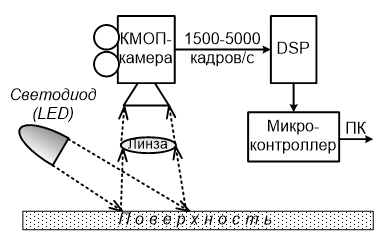
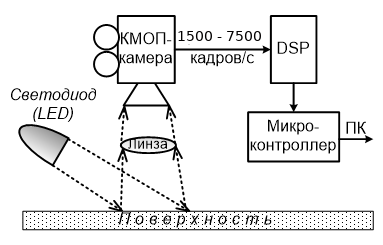
ebany rot

Changed region(s): [[0.4595, 0.1143, 0.6893, 0.2]]

diff --git a/assets/pages/mouse.html b/assets/pages/mouse.html
@@ -356,9 +356,9 @@
                 alt="optical-mouse3"
               />
               <span class="type__text--green">Второе поколение</span> оптических
-              мышей имеет более сложное устройство. В ничней части мыши
+              мышей (Оптосенсорных) имеет более сложное устройство. В ничней части мыши
               установлена силиконовая КМОП-камера (оптический сенсор), способная
-              производить от 1500 до 5000 снимков поверхности в секунду. Эта
+              производить от 1500 до 7500 снимков поверхности в секунду. Эта
               последовательность снимков «пропускается» через достаточно мощный
               цифровой сигнальный процессор (DSP), который сравнивает текущий и
               предыдущий снимки. Специальная контрастная подсветка поверхнсти
